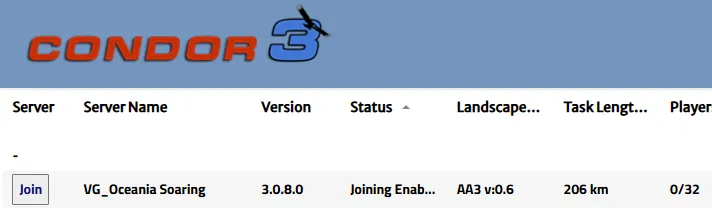
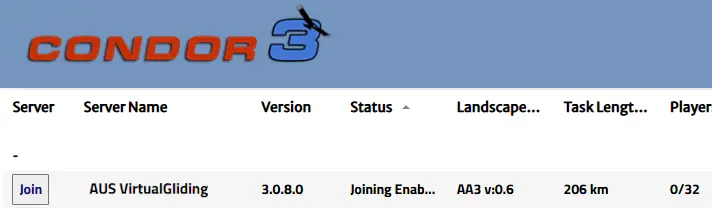
Updated Join Pics and Join name

Changed region(s): [[0.0927, 0.8571, 0.309, 0.9429], [0.4017, 0.8857, 0.4326, 0.9143], [0.3708, 0.2571, 0.4017, 0.2857]]

diff --git a/Join.html b/Join.html
@@ -122,7 +122,7 @@
                 </div>
               </div>
               <ul class="list-unstyled">
-                <li class="d-flex align-items-start"><i class="fas fa-check text-success me-3 mt-1"></i>Find &nbsp;<i><strong> VG_Oceania Soaring </strong></i>&nbsp; in the Serverlist</li>
+                <li class="d-flex align-items-start"><i class="fas fa-check text-success me-3 mt-1"></i>Find &nbsp;<i><strong> AUS VirtualGliding </strong></i>&nbsp; in the Serverlist</li>
                 <li class="d-flex align-items-start"><i class="fas fa-check text-success me-3 mt-1"></i>Your condor3
                   version has to be the same as what’s listed.</li>
                 <li class="d-flex align-items-start"><i class="fas fa-check text-success me-3 mt-1"></i>Check Status is
